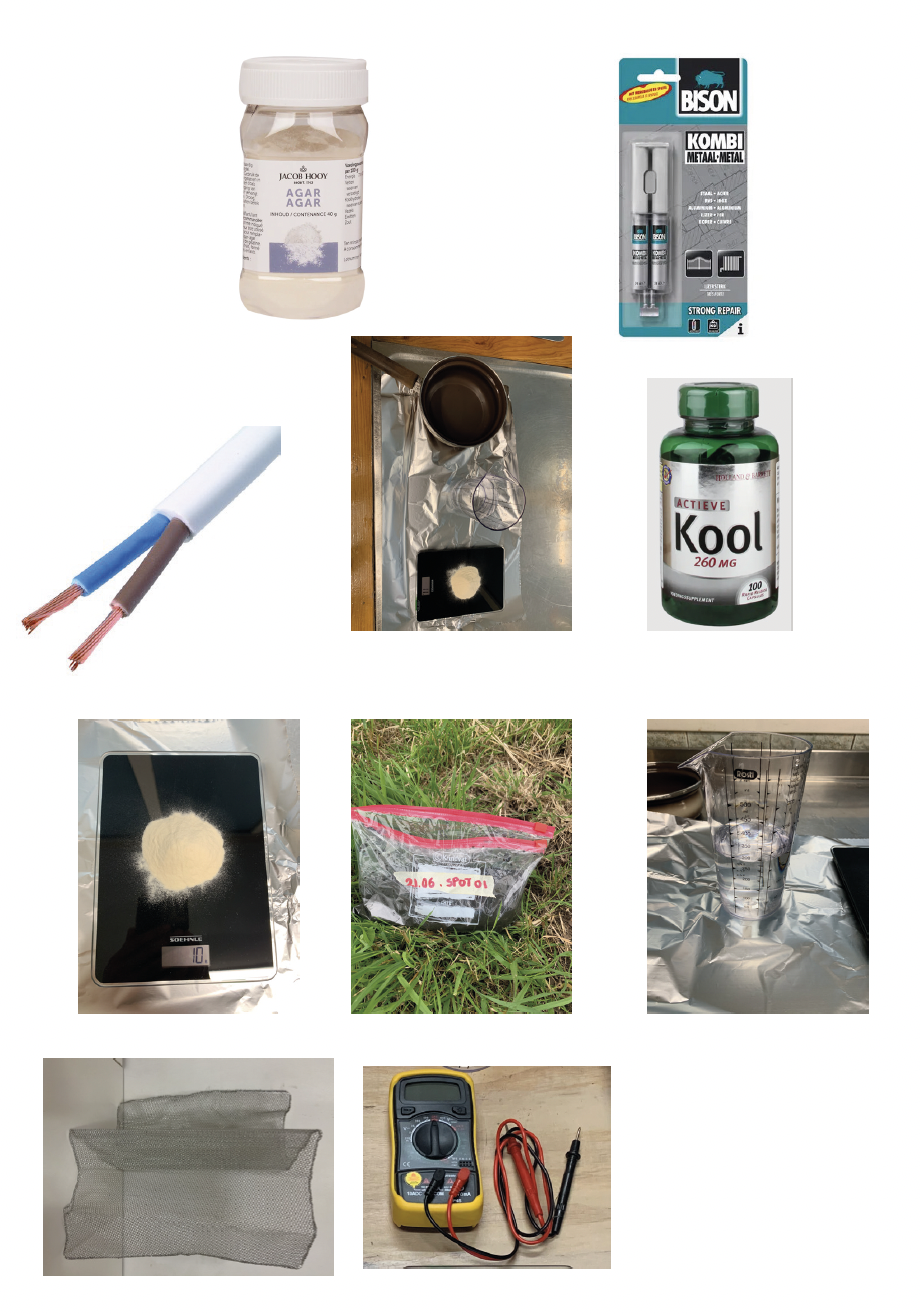
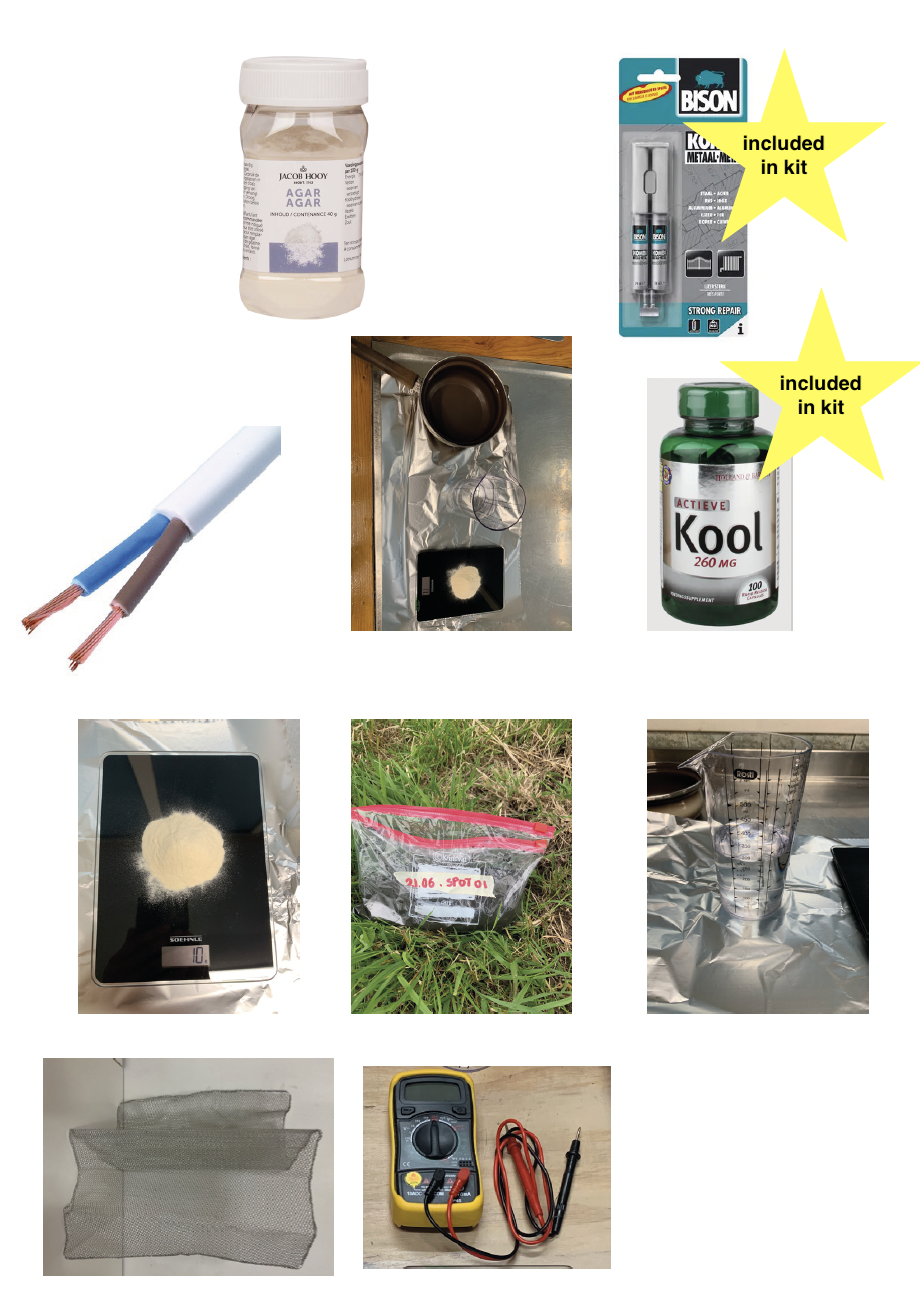
add

Changed region(s): [[0.7913, 0.2184, 1.0, 0.3744], [0.7609, 0.0312, 0.9739, 0.1872]]

diff --git a/README.md b/README.md
@@ -40,7 +40,7 @@ It's a good idea to prepare by reading the whole script well before starting the
 # 1. Materials and tools
 
 
-**For the mud battery**
+## Mud battery
 
 
 Look for reddish brown soil near river beds and swamps, areas where water has a reddish color. Preferably collect deep samples not from the surface. 
@@ -53,7 +53,7 @@ Make sure you take mud as well as some water (see image below).
 
 <img src="./images/mudscoop.jpg" alt="" width="400"/>
 
-*Tools for the mud battery*
+### Tools for the mud battery
 
 * pot and stove to cook the agar mixture
 * multimeter
@@ -61,7 +61,7 @@ Make sure you take mud as well as some water (see image below).
 * breadboard (included in kit)
 * kitchen scale
 
-*Materials for the mud battery*
+### Materials for the mud battery
 
 - Mud (samples should be collected in advance)
 - Containers ( ex: glass jar or plastic - Around 1L)
@@ -83,34 +83,41 @@ battery size 5 x 7 cm)
 <img src="./images/materials.png" alt="" width="600"/>
 
 
-**For the joule thieves**
+## Materials & tools for the joule thieves
 
-*Materials for the joule thieves*
+### Included in kit sent by H&D:
 
-* a small breadboard (included in kit)
-* an LED (and optional: a small buzzer) (included in kit)
-* an NPN Transistor 2N3904 (this type has an EBC pinout which is pictured in the instructions, if you take another NPN transistor, check pinout and adjust accordingly) (included in kit)
-* a 1K ohm resistor (included in kit)
-* a ferrite toroid with an inner diameter of 9mm or so (included in kit)
+We sent each node a box with kits that contain the following PLUS a battery clip (not pictured). We will send each node the tracking information so you can keep track. If it arrives too late, you can source your own, or (tip from Adam Dror) find a CFL bulb at a recycling place or second hand store and take it apart to harvest a coiled toroid and transistor from there! The other parts are available at any prototyping store. 
+
+* a small breadboard 
+* an LED (and optional: a small buzzer) 
+* an NPN Transistor 2N3904 (this type has an EBC pinout which is pictured in the instructions, if you take another NPN transistor, check pinout and adjust accordingly) 
+* a 1K ohm resistor 
+* a ferrite toroid with an inner diameter of 9mm or so
 * a 1.5V AA battery (doesn't need to be full) 
-* thin enameled copper wire, 0,3 mm core, about 100 cm (included in kit)
-* 2 crocodile clips (included in kit)
-* 4 jumper wires (included in kit)
-* a momentary switch (a push button) (included in kit)
-* an AA battery clip (1 cell) (included in kit)
+* thin enameled copper wire, 0,3 mm core, about 100 cm 
+* 2 crocodile clips 
+* 4 jumper wires 
+* a momentary switch (a push button) 
+* an AA battery clip (1 cell) 
+* piece of sanding paper
+
+
+<img src="./images/parts.jpeg" alt="" width="600"/>
+
+
+### NOT included in kit:
+
 * 12-15 cm or three short pieces of solid core hook-up wire (22 AWG such as [this](https://www.sparkfun.com/products/8024) could be useful to make the leads of the coil sturdier (NOT INCLUDED IN THE KIT, sorry we realized a bit late).
 
-*Tools for the joule thieves*
+### Tools for the joule thieves:
 
 * a lighter to melt the enamel off the copper
-* sand paper (to sand the copper wire removing last bits of enamel)
 * a multimeter
 * clippers to cut wires
 * a soldering iron
 * some soldering tin
 * a third hand (a person, some clothes pegs or a stand with clamps)
-
-<img src="./images/parts.jpeg" alt="" width="600"/>
 
 
 # 2. Prior knowledge that will come in handy
